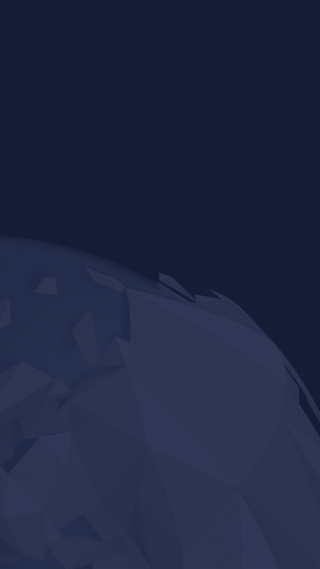
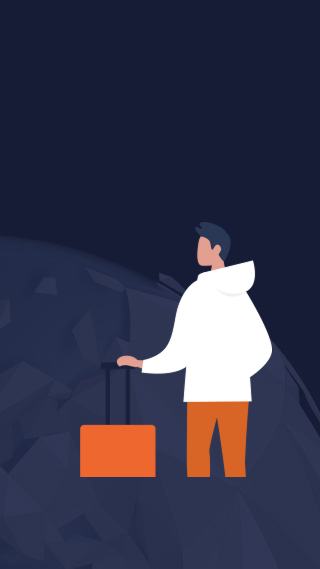
fix: button, main-section; add: contacts.scss; delete: main-picture

Changed region(s): [[0.3438, 0.3884, 0.875, 0.8366], [0.25, 0.7469, 0.5, 0.8366]]

diff --git a/src/index.html b/src/index.html
@@ -57,24 +57,24 @@
       </div>
       <div class="mobile-menu__footer">
         <ul class="mobile-menu__contacts">
-          <li class="mobile-menu__contacts-item">
+          <li class="contacts">
             <a href="tel:88005558628" class="contacts__link">
               <div class="contacts__icon">
                 <svg width="18" height="17" aria-hidden="true">
                   <use xlink:href="assets/icons/icons.svg#icon-contacts-mobile"></use>
                 </svg>
               </div>
-              <p class="contacts-text">8 800 555-86-28</p>
+              <p class="contacts__text">8 800 555-86-28</p>
             </a>
           </li>
-          <li class="mobile-menu__contacts-item">
+          <li class="contacts">
             <a href="mailto:mail@htmlacademy.ru" class="contacts__link">
               <div class="contacts__icon">
                 <svg width="24" height="25" aria-hidden="true">
                   <use xlink:href="assets/icons/icons.svg#icon-contacts-mail"></use>
                 </svg>
               </div>
-              <p class="contacts-text">mail@htmlacademy.ru</p>
+              <p class="contacts__text">mail@htmlacademy.ru</p>
             </a>
           </li>
         </ul>
@@ -112,19 +112,13 @@
           с крутыми<br>
           попутчиками!
         </h1>
-<!--        <picture>-->
-<!--          <img class="page-main-section__background" src="assets/images/background/globe-back-mobile-1.png" width="320" height="569" alt="Планета">-->
-<!--        </picture>-->
-        <picture class="main-section__picture">
-          <img class="main-section__image" src="assets/images/illustration/traveller-illustration-mobile-1.png" width="192" height="255" alt="Путешественник">
-        </picture>
         <div class="main-section__button">
-          <a class="button__round -call" href="#">
+          <a class="button -round" href="#">
             <svg width="18" height="18" aria-hidden="true">
               <use xlink:href="assets/icons/icons.svg#icon-call"></use>
             </svg>
           </a>
-          <a class="button__round -mail" href="#">
+          <a class="button -round" href="#">
             <svg width="18" height="15.75" aria-hidden="true">
               <use xlink:href="assets/icons/icons.svg#icon-mail"></use>
             </svg>

diff --git a/src/assets/styles/variables/_colors.scss b/src/assets/styles/variables/_colors.scss
@@ -30,12 +30,12 @@ $color-orange-dark: #F26926;
   --color-button-background-hover: #{$color-yellow-dark};
   --color-button-call: #{$color-blue-dark};
   --color-button-call-active: #{$color-blue-dark-opacity};
-  --color-button-call-before: #{$color-orange};
-  --color-button-call-before-hover: #{$color-orange-dark};
+  --color-button-call-background: #{$color-orange};
+  --color-button-call-background-hover: #{$color-orange-dark};
   --color-button-mail: #{$color-blue-dark};
   --color-button-mail-active: #{$color-blue-dark-opacity};
-  --color-button-mail-before: #{$color-yellow-dark};
-  --color-button-mail-before-hover: #{$color-orange};
+  --color-button-mail-background: #{$color-yellow-dark};
+  --color-button-mail-background-hover: #{$color-orange};
 
   /* Toggle */
   --color-header-toggle: #{$color-white};
@@ -44,16 +44,17 @@ $color-orange-dark: #F26926;
 
   //Header
   /* Icons */
-  --color-mobile-menu-contacts-text: #{$color-blue-dark-2};
-  --color-mobile-menu-contacts-text-hover: #{$color-yellow-dark};
-  --color-mobile-menu-contacts-text-active: #{$color-yellow-dark-opacity};
-  --color-mobile-menu-contacts-icon: #{$color-yellow};
-  --color-mobile-menu-contacts-icon-background: #{$color-blue-dark-3};
-  --color-mobile-menu-contacts-icon-hover: #{$color-yellow-dark};
-  --color-mobile-menu-contacts-icon-active: #{$color-yellow-dark-opacity};
   --color-mobile-menu-socials-icon: #{$color-blue-dark-2};
   --color-mobile-menu-socials-icon-hover: #{$color-blue-dark-2-opacity-medium};
   --color-mobile-menu-socials-icon-active: #{$color-blue-dark-2-opacity-light};
+  /* Contacts */
+  --color-contacts-text: #{$color-blue-dark-2};
+  --color-contacts-text-hover: #{$color-yellow-dark};
+  --color-contacts-text-active: #{$color-yellow-dark-opacity};
+  --color-contacts-icon: #{$color-yellow};
+  --color-contacts-icon-background: #{$color-blue-dark-3};
+  --color-contacts-icon-hover: #{$color-yellow-dark};
+  --color-contacts-icon-active: #{$color-yellow-dark-opacity};
   /* Mobile Menu */
   --color-mobile-menu-background: #{$color-white};
   --color-mobile-menu-link-text: #{$color-blue-dark-2};

diff --git a/src/assets/styles/page-main/main-section/main-button.scss b/src/assets/styles/page-main/main-section/main-button.scss
@@ -5,70 +5,6 @@
   display: flex;
   align-items: center;
   justify-content: center;
-}
-
-.button__round {
-  --button-size: 40px;
-  width: var(--button-size);
-  height: var(--button-size);
   position: relative;
-  display: flex;
-  align-items: center;
-  justify-content: center;
-  border: none;
-  border-radius: 50%;
-  cursor: pointer;
-  transition: background-color $transition-duration ease, color $transition-duration ease;
-  z-index: $z-index-low;
-
-  &::before {
-    content: "";
-    position: absolute;
-    width: 100%;
-    height: 100%;
-    background-color: var(--color-button-default);
-    border-radius: 50%;
-    transition: background-color $transition-duration ease;
-    z-index: $z-index-negative;
-  }
-
-  &:hover::before {
-    background-color: var(--color-button-hover);
-  }
-
-  &:active {
-    color: var(--color-button-active);
-  }
-
-  &.-call {
-    color: var(--color-button-call);
-
-    &::before {
-      background-color: var(--color-button-call-before);
-    }
-
-    &:hover::before {
-      background-color: var(--color-button-call-before-hover);
-    }
-
-    &:active {
-      color: var(--color-button-call-active);
-    }
-  }
-
-  &.-mail {
-    color: var(--color-button-mail);
-
-    &::before {
-      background-color: var(--color-button-mail-before);
-    }
-
-    &:hover::before {
-      background-color: var(--color-button-mail-before-hover);
-    }
-
-    &:active {
-      color: var(--color-button-mail-active);
-    }
-  }
+  z-index: $z-index-sm;
 }

diff --git a/src/assets/styles/libs/icons.scss b/src/assets/styles/libs/icons.scss
@@ -1,57 +1,5 @@
 @use "../variables" as *;
 
-.contacts__link {
-  --contacts-text-color: var(--color-mobile-menu-contacts-text);
-  --contacts-icon-color: var(--color-mobile-menu-contacts-icon);
-
-  display: flex;
-  gap: 16px;
-  align-items: center;
-  color: var(--contacts-text-color);
-  transition: color $transition-duration ease;
-
-  .contacts__icon {
-    transition: color $transition-duration ease;
-  }
-
-  &:hover {
-    --contacts-text-color: var(--color-mobile-menu-contacts-text-hover);
-    --contacts-icon-color: var(--color-mobile-menu-contacts-icon-hover);
-  }
-
-  &:active {
-    --contacts-text-color: var(--color-mobile-menu-contacts-text-active);
-    --contacts-icon-color: var(--color-mobile-menu-contacts-icon-active);
-  }
-}
-
-.contacts__icon {
-  --contacts-icon-size: 45px;
-  position: relative;
-  width: var(--contacts-icon-size);
-  height: var(--contacts-icon-size);
-  z-index: $z-index-low;
-  color: var(--contacts-icon-color);
-  display: flex;
-  align-items: center;
-  justify-content: center;
-
-  &::before {
-    content: "";
-    position: absolute;
-    width: 100%;
-    height: 100%;
-    z-index: $z-index-negative;
-    background-color: var(--color-mobile-menu-contacts-icon-background);
-    border-radius: 50%;
-  }
-}
-
-.contacts-text {
-  font: var(--font-menu-contacts);
-  text-transform: uppercase;
-}
-
 .socials__icon {
   color: var(--color-mobile-menu-socials-icon);
   transition: color $transition-duration ease;

diff --git a/src/assets/styles/libs/contacts.scss b/src/assets/styles/libs/contacts.scss
@@ -1,0 +1,42 @@
+@use "../variables" as *;
+
+.contacts__link {
+  --contacts-text: var(--color-contacts-text);
+  --contacts-icon: var(--color-contacts-icon);
+
+  display: flex;
+  gap: 16px;
+  align-items: center;
+  color: var(--contacts-text);
+  transition: color $transition-duration ease;
+
+  &:hover {
+    --contacts-text: var(--color-contacts-text-hover);
+    --contacts-icon: var(--color-contacts-icon-hover);
+  }
+
+  &:active {
+    --contacts-text: var(--color-contacts-text-active);
+    --contacts-icon: var(--color-contacts-icon-active);
+  }
+}
+
+.contacts__icon {
+  --contacts-icon-size: 45px;
+  width: var(--contacts-icon-size);
+  height: var(--contacts-icon-size);
+  border: none;
+  border-radius: 50%;
+  color: var(--contacts-icon);
+  background-color: var(--color-contacts-icon-background);
+  display: flex;
+  align-items: center;
+  justify-content: center;
+  cursor: pointer;
+  transition: color $transition-duration ease;
+}
+
+.contacts__text {
+  font: var(--font-menu-contacts);
+  text-transform: uppercase;
+}

diff --git a/src/assets/styles/libs/button.scss b/src/assets/styles/libs/button.scss
@@ -25,4 +25,44 @@
     padding: 10px 39px 10px 40px;
     line-height: 20px;
   }
+
+  &.-round {
+    --button-round-size: 40px;
+    padding: 0;
+    width: var(--button-round-size);
+    height: var(--button-round-size);
+    position: relative;
+    border: none;
+    border-radius: 50%;
+    display: flex;
+    align-items: center;
+    justify-content: center;
+    cursor: pointer;
+
+    &:first-child {
+      background-color: var(--color-button-call-background);
+      color: var(--color-button-call);
+
+      &:hover {
+        background-color: var(--color-button-call-background-hover);
+      }
+
+      &:active {
+        color: var(--color-button-call-active);
+      }
+    }
+
+    &:last-child {
+      background-color: var(--color-button-mail-background);
+      color: var(--color-button-mail);
+
+      &:hover {
+        background-color: var(--color-button-mail-background-hover);
+      }
+
+      &:active {
+        color: var(--color-button-mail-active);
+      }
+    }
+  }
 }

diff --git a/src/assets/styles/page-main/main-section/general.scss b/src/assets/styles/page-main/main-section/general.scss
@@ -2,8 +2,19 @@
 
 .main-section {
   padding-top: 41px;
-  //background-color: var(--color-page-main-section-background);
+  background-color: var(--color-main-section-background);
+  //background-image: url("../images/illustration/traveller-illustration-mobile-1.png");
+  //background-repeat: no-repeat;
+  //background-position-y: 169px;
+  //background-position-x: calc(80px + 50vw - 160px);
   position: relative;
+
+  //background-image: url("../images/background/globe-back-mobile-1.png");
+  //background-color: var(--color-main-section-background);
+  //background-size: cover;
+  //background-position: center -54px;
+  //background-repeat: no-repeat;
+  //z-index: $z-index-negative;
 
   &::before {
     content: '';
@@ -17,6 +28,5 @@
     left: 0;
     width: 100vw;
     height: 569px;
-    z-index: $z-index-negative;
   }
 }

diff --git a/src/assets/styles/page-main/main-section/heading.scss b/src/assets/styles/page-main/main-section/heading.scss
@@ -1,7 +1,7 @@
 @use "../../variables" as *;
 
 .main-section__heading {
-  margin-bottom: 10px;
+  margin-bottom: 265px;
   margin-left: auto;
   margin-right: auto;
   position: relative;

diff --git a/src/assets/styles/page-main/main-section/testimonial.scss b/src/assets/styles/page-main/main-section/testimonial.scss
@@ -12,7 +12,7 @@
   gap: 18px;
   align-items: start;
   justify-content: start;
-  z-index: $z-index-negative;
+  z-index: $z-index-low;
 }
 
 .main-section__testimonial-text {

diff --git a/src/assets/styles/page-main/steps-section/steps.scss b/src/assets/styles/page-main/steps-section/steps.scss
@@ -1,5 +1,10 @@
 @use "../../variables" as *;
 
+.steps {
+  position: relative;
+  z-index: $z-index-sm;
+}
+
 .steps__list {
   display: grid;
 }

diff --git a/src/assets/styles/page-main/main-section/_index.scss b/src/assets/styles/page-main/main-section/_index.scss
@@ -1,5 +1,4 @@
 @forward "general";
 @forward "heading";
-@forward "main-picture";
 @forward "main-button";
 @forward "testimonial";

diff --git a/src/assets/styles/libs/_index.scss b/src/assets/styles/libs/_index.scss
@@ -1,3 +1,4 @@
 @forward "box";
 @forward "button";
 @forward "icons";
+@forward "contacts";
